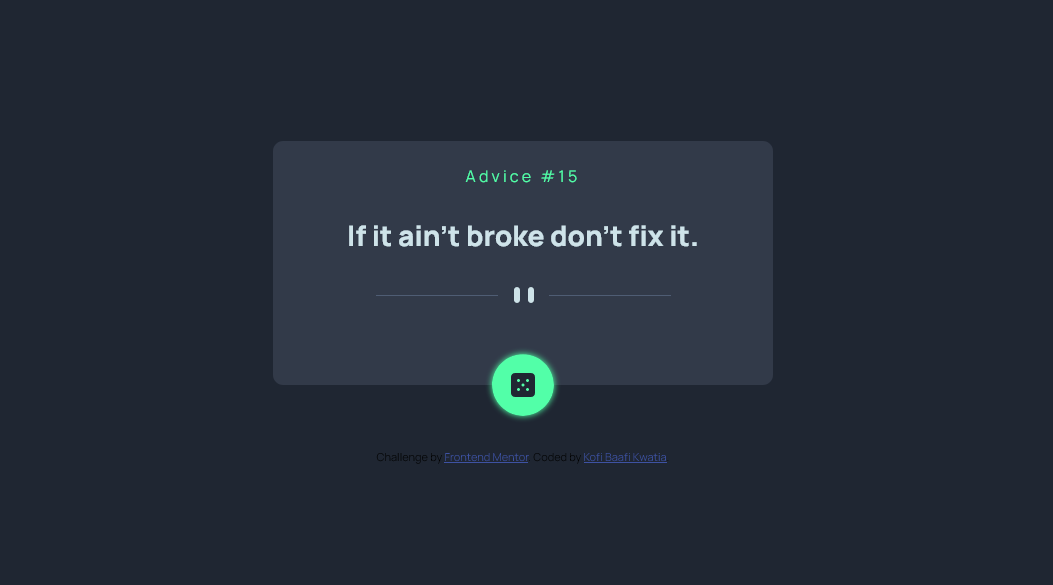
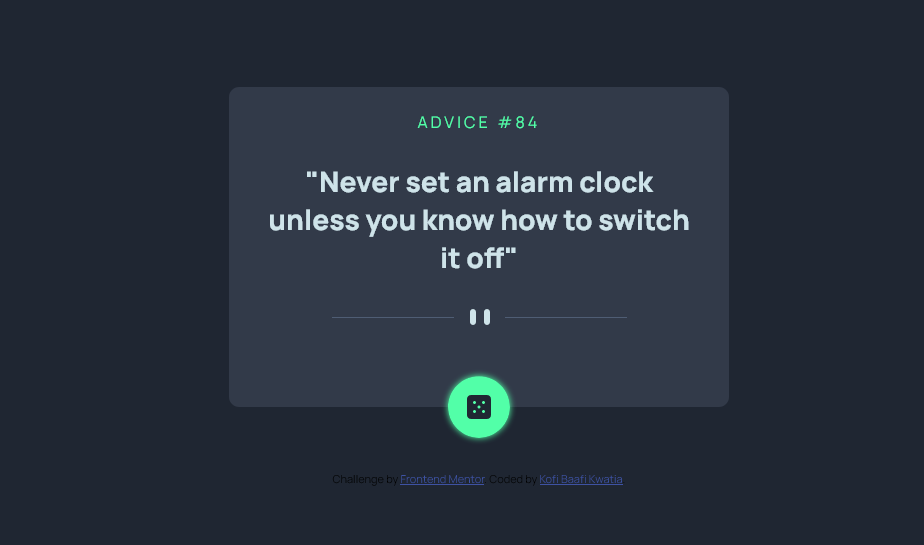
modified

diff --git a/js/script.js b/js/script.js
@@ -16,7 +16,7 @@ async function getAdvice() {
     const advice = await res.json();
     console.log(advice);
     adviceId.innerHTML = advice.slip.id;
-    adviceText.textContent = advice.slip.advice;
+    adviceText.textContent = `"${advice.slip.advice}"`;
   } catch (error) {
     console.log("Error:", error);
   }

diff --git a/css/styles.css b/css/styles.css
@@ -47,6 +47,7 @@ body {
 h1 {
   font-size: 16px;
   font-weight: 400;
+  text-transform: uppercase;
   margin-bottom: 1.8rem;
   letter-spacing: 0.2rem;
   color: var(--neon-green);

diff --git a/README-template.md b/README-template.md
@@ -34,8 +34,8 @@ Users should be able to:
 
 ### Links
 
-- Solution URL: [Add solution URL here](https://your-solution-url.com)
-- Live Site URL: [Add live site URL here](https://your-live-site-url.com)
+- Solution URL: [Add solution URL here](https://github.com/WesSno/advice-generator-app-main)
+- Live Site URL: [Add live site URL here](https://wes-advice-generator.netlify.app)
 
 ## My process
 
@@ -58,4 +58,4 @@ Users should be able to:
 
 ## Author
 
-- Frontend Mentor - [@WesSno](https://www.frontendmentor.io/profile/WesSno)
+- Frontend Mentor - (https://www.frontendmentor.io/profile/WesSno)
